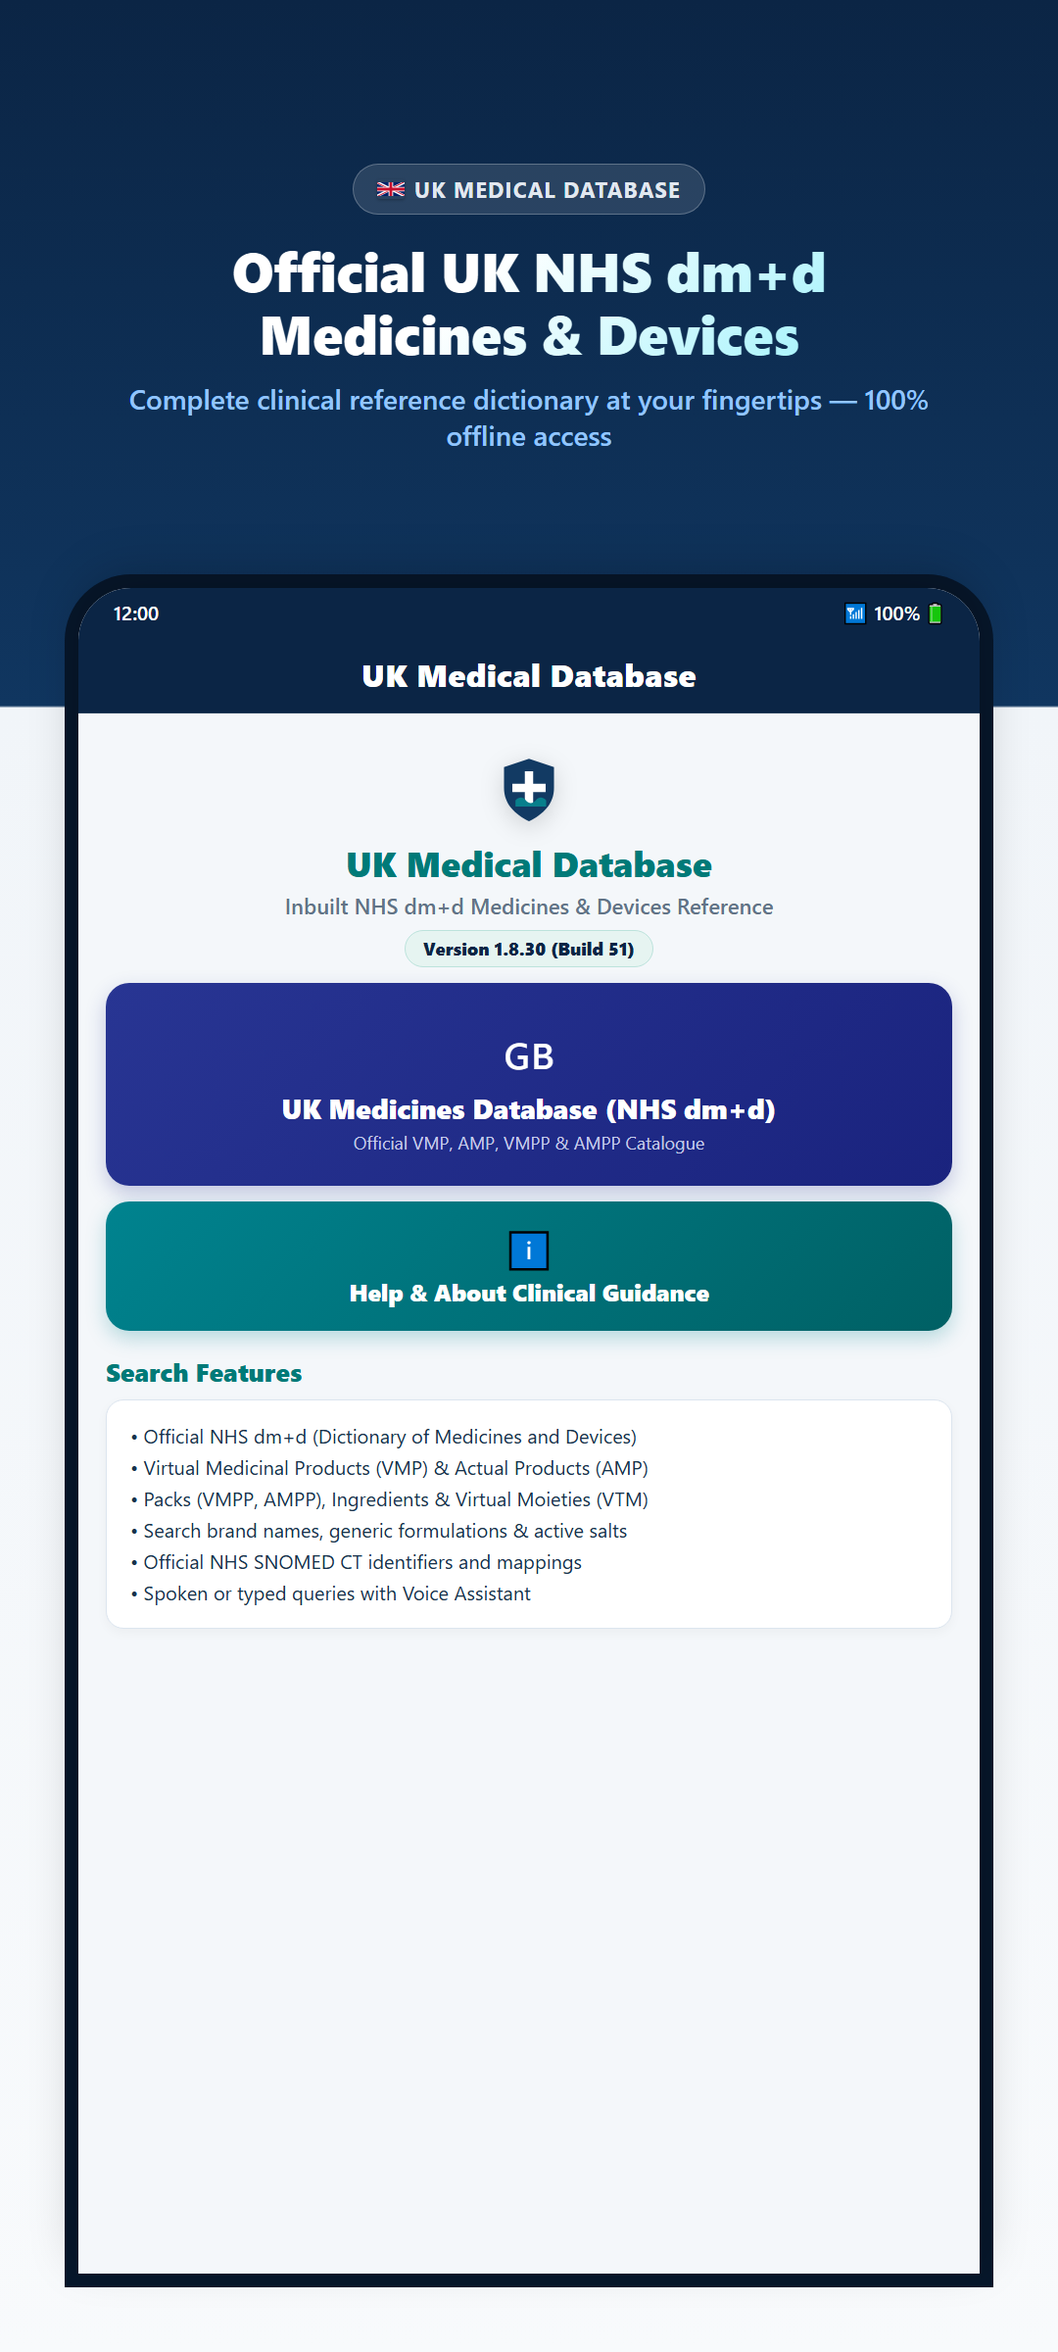
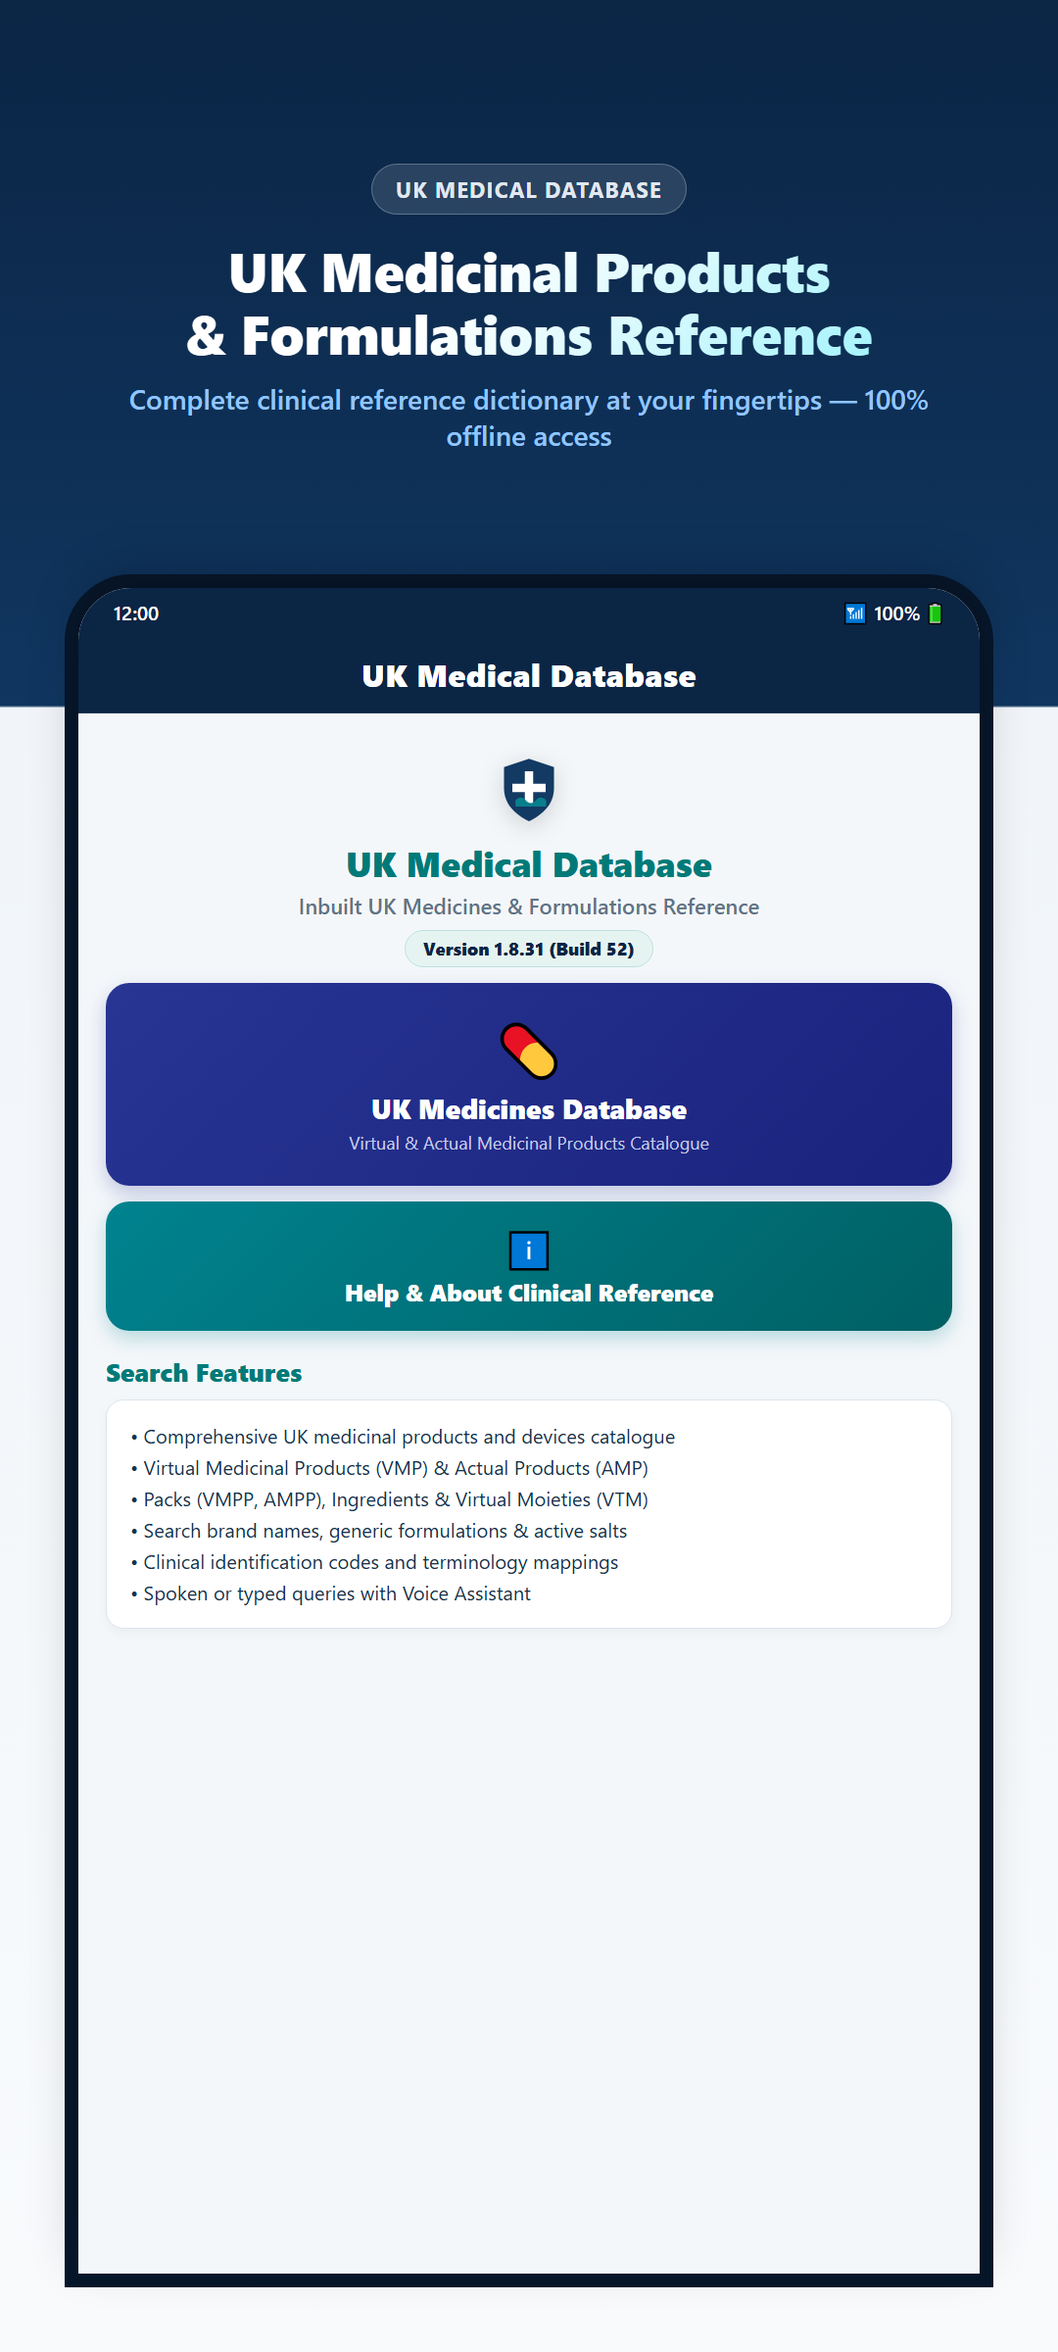
Remove all NHS, dm+d, and UK flag references, re-render clean visual assets, bump to v1.8.31 (code 52)

diff --git a/app/src/main/java/com/drgenz/MainActivity.java b/app/src/main/java/com/drgenz/MainActivity.java
@@ -77,7 +77,7 @@ public class MainActivity extends Activity {
         headerTitle.setTextColor(teal);
         brandBox.addView(headerTitle);
 
-        TextView subTitle = tv("Inbuilt NHS dm+d Medicines & Devices Reference", 14);
+        TextView subTitle = tv("Inbuilt UK Medicines & Formulations Reference", 14);
         subTitle.setGravity(Gravity.CENTER);
         subTitle.setTextColor(getColor(R.color.muted));
         brandBox.addView(subTitle);
@@ -94,7 +94,7 @@ public class MainActivity extends Activity {
         // Primary Search Navigation Tile
         int h = dp(isPhone() ? 120 : 138);
         LinearLayout row1 = new LinearLayout(this); row1.setOrientation(LinearLayout.HORIZONTAL);
-        row1.addView(menuTile("🇬🇧", "UK Medicines Database (NHS dm+d)", 0xFF283593, 0xFFFFFFFF, v -> ukMedicineDatabaseSearch()), new LinearLayout.LayoutParams(-1, h));
+        row1.addView(menuTile("💊", "UK Medicines Database", 0xFF283593, 0xFFFFFFFF, v -> ukMedicineDatabaseSearch()), new LinearLayout.LayoutParams(-1, h));
         LinearLayout.LayoutParams lpRow1 = new LinearLayout.LayoutParams(-1, -2);
         lpRow1.setMargins(0, 0, 0, dp(10));
         body.addView(row1, lpRow1);
@@ -108,18 +108,18 @@ public class MainActivity extends Activity {
 
         // Feature overview
         body.addView(section("Search Features"));
-        body.addView(tv("• UK NHS dm+d (Dictionary of Medicines and Devices) official terminology\n"
+        body.addView(tv("• Comprehensive UK medicinal products and devices catalogue\n"
                 + "• Virtual Medicinal Products (VMP) & Actual Medicinal Products (AMP)\n"
                 + "• Packs (VMPP, AMPP), Ingredients & Virtual Therapeutic Moieties (VTM)\n"
                 + "• Search by brand name, proprietary name, or active chemical substance\n"
-                + "• Official NHS SNOMED CT identifiers and mapping codes\n"
+                + "• Clinical identification codes and terminology mappings\n"
                 + "• Spoken or typed queries with Voice Assistant", 14));
 
-        body.addView(section("Offline NHS Clinical Terminology"));
-        body.addView(tv("All NHS dm+d records are pre-compiled and bundled inside the application. No internet connection is needed for catalogue lookups (internet is only required if using Google Voice Recognition).", 13));
+        body.addView(section("Offline UK Clinical Terminology"));
+        body.addView(tv("All medicine details, packs, and formulations are pre-compiled and bundled inside the application. No internet connection is needed for catalogue lookups (internet is only required if using Google Voice Recognition).", 13));
 
         body.addView(section("Important Clinical Disclaimer"));
-        body.addView(tv("The UK dm+d is a medicine terminology and identification resource, not a complete source of prescribing advice, dosage, side-effects, or contraindications. Missing data must never be interpreted as an absence of risk. Always check official BNF prescribing guidelines and consult a registered medical practitioner.", 13));
+        body.addView(tv("This application is an independent medicine terminology and identification resource, not affiliated with or endorsed by any government entity, the NHS, or dm+d. It is not a complete source of prescribing advice, dosage, side-effects, or contraindications. Always consult a registered medical practitioner and official prescribing references.", 13));
 
         body.addView(section("Developer & Contact Information"));
         body.addView(mainContactBox());
@@ -166,9 +166,9 @@ public class MainActivity extends Activity {
         shell("Help & About");
         body.addView(section("About UK Medical Database"));
         body.addView(tv("Version " + BuildConfig.VERSION_NAME + " (Build " + BuildConfig.VERSION_CODE + ")", 13));
-        body.addView(tv("UK Medical Database is an offline clinical reference tool containing the official NHSBSA dm+d (Dictionary of Medicines and Devices) catalogue.", 14));
+        body.addView(tv("UK Medical Database is an independent offline clinical reference tool providing comprehensive details on UK medicines, active substances, formulations, and packaging.", 14));
 
-        body.addView(section("NHS dm+d Content"));
+        body.addView(section("Medicinal Products & Content"));
         body.addView(tv("• Actual Medicinal Product (AMP): Manufactured medicinal product available in the UK.\n"
                 + "• Actual Medicinal Product Pack (AMPP): Specific pack size of an AMP.\n"
                 + "• Virtual Medicinal Product (VMP): Generic title representing active ingredient and strength.\n"
@@ -178,7 +178,10 @@ public class MainActivity extends Activity {
         body.addView(section("Searching & Voice Assistant"));
         body.addView(tv("• Type at least 3 letters of a product or generic name and tap 'Search' or 'Type and Ask'.\n"
                 + "• Tap the 🎙 Voice Assistant button to ask by voice hands-free.\n"
-                + "• Select any result to view its NHS identifier code and complete entry details read aloud.", 14));
+                + "• Select any result to view its clinical identifier code and complete entry details read aloud.", 14));
+
+        body.addView(section("Non-Affiliation Notice"));
+        body.addView(tv("UK Medical Database is independently developed and published. It is NOT affiliated with, sponsored by, or endorsed by the National Health Service (NHS), NHSBSA, or the Dictionary of Medicines and Devices (dm+d). All trademarks belong to their respective holders.", 13));
 
         body.addView(section("Important Disclaimer"));
         body.addView(tv("The catalogue does not supply complete clinical dosage, side-effect, contraindication or interaction information. It is provided for reference and educational use only.", 14));
@@ -195,8 +198,8 @@ public class MainActivity extends Activity {
 
     void ukMedicineDatabaseSearch() {
         shell("UK Medicines Database");
-        body.addView(section("UK NHS Medicines & Devices"));
-        body.addView(tv("Search the offline NHS dm+d reference dictionary.", 14));
+        body.addView(section("UK Medicines & Formulations"));
+        body.addView(tv("Search the offline UK clinical reference dictionary.", 14));
         body.addView(tv("Internet is required only for voice recognition.", 13));
 
         final EditText q = input("Search UK medicine / brand / ingredient (3+ letters)");
@@ -228,7 +231,7 @@ public class MainActivity extends Activity {
             return;
         }
         ukMedicineResults.removeAllViews();
-        ukMedicineResults.addView(tv("Searching UK NHS dm+d catalogue…", 13));
+        ukMedicineResults.addView(tv("Searching UK medicines catalogue…", 13));
 
         catalogExec.execute(() -> {
             List<Map<String, String>> hits = UkDmDManager.search(MainActivity.this, term, 60);
@@ -236,7 +239,7 @@ public class MainActivity extends Activity {
                 if (isFinishing() || isDestroyed() || ukMedicineResults == null) return;
                 ukMedicineResults.removeAllViews();
                 if (hits.isEmpty()) {
-                    String noMatch = "No matching UK dm+d entries found for \"" + term + "\".";
+                    String noMatch = "No matching UK medicine entries found for \"" + term + "\".";
                     ukMedicineResults.addView(tv(noMatch, 14));
                     if (speakResults) askSay(noMatch);
                     return;
@@ -250,9 +253,9 @@ public class MainActivity extends Activity {
                     final String table = hit.getOrDefault("table", "");
                     final String code = hit.getOrDefault("code", "");
                     final String detail = "Entry type: " + UkDmDManager.tableLabel(table)
-                            + "\nNHS Code: " + code
+                            + "\nClinical Code: " + code
                             + (desc.isEmpty() ? "" : "\nDescription: " + desc)
-                            + "\n\nNote: The NHS dm+d is a product-identification resource. Always check approved prescribing product information for complete clinical guidance.";
+                            + "\n\nNote: This is an independent product-identification resource. Always check approved prescribing product information for complete clinical guidance.";
                     View.OnClickListener open = x -> {
                         AlertDialog dlg = new AlertDialog.Builder(MainActivity.this)
                                 .setTitle(name).setMessage(detail).setPositiveButton("Close", null)

diff --git a/app/src/main/java/com/drgenz/AppUpdateHelper.java b/app/src/main/java/com/drgenz/AppUpdateHelper.java
@@ -22,7 +22,7 @@ import java.net.HttpURLConnection;
 import java.net.URL;
 
 /**
- * Manages in-app update checks for UK Medical Database (NHS dm+d) using a dual-tier strategy:
+ * Manages in-app update checks for UK Medical Database using a dual-tier strategy:
  * 1. Google Play In-App Updates API (official Play Core method for Google Play releases).
  * 2. Custom remote JSON version check fallback (for sideloaded builds, Amazon Appstore, or non-GMS devices).
  */
@@ -50,7 +50,7 @@ public final class AppUpdateHelper {
             this.minRequiredVersionCode = minRequiredVersionCode;
             this.versionName = (versionName == null) ? "" : versionName;
             this.updateMessage = (updateMessage == null || updateMessage.trim().isEmpty())
-                    ? "A new update is available with updated NHS dm+d records and performance enhancements."
+                    ? "A new update is available with updated UK medicine records and performance enhancements."
                     : updateMessage;
             this.playStoreUrl = (playStoreUrl == null || playStoreUrl.trim().isEmpty())
                     ? "https://play.google.com/store/apps/details?id=com.drgenz.ukmeddb"

diff --git a/app/src/test/java/com/drgenz/AppUpdateHelperTest.java b/app/src/test/java/com/drgenz/AppUpdateHelperTest.java
@@ -12,7 +12,7 @@ public class AppUpdateHelperTest {
                 "  \"latestVersionCode\": 51,\n" +
                 "  \"minRequiredVersionCode\": 40,\n" +
                 "  \"versionName\": \"1.8.30\",\n" +
-                "  \"updateMessage\": \"New NHS dm+d records updated.\",\n" +
+                "  \"updateMessage\": \"New UK medicine records updated.\",\n" +
                 "  \"playStoreUrl\": \"https://play.google.com/store/apps/details?id=com.drgenz.ukmeddb\",\n" +
                 "  \"websiteUrl\": \"https://drgenz.info\"\n" +
                 "}";
@@ -22,7 +22,7 @@ public class AppUpdateHelperTest {
         assertEquals(51, cfg.latestVersionCode);
         assertEquals(40, cfg.minRequiredVersionCode);
         assertEquals("1.8.30", cfg.versionName);
-        assertEquals("New NHS dm+d records updated.", cfg.updateMessage);
+        assertEquals("New UK medicine records updated.", cfg.updateMessage);
         assertEquals("https://play.google.com/store/apps/details?id=com.drgenz.ukmeddb", cfg.playStoreUrl);
         assertEquals("https://drgenz.info", cfg.websiteUrl);
     }

diff --git a/app/src/main/java/com/drgenz/UkDmDManager.java b/app/src/main/java/com/drgenz/UkDmDManager.java
@@ -33,7 +33,7 @@ public final class UkDmDManager {
         SharedPreferences p = context.getSharedPreferences(PREFS, Context.MODE_PRIVATE);
         String release = p.getString("release", "Release 11.1.0");
         String date = p.getString("release_date", "2026-11-09");
-        return "NHS dm+d item 24 + item 25: " + release + " (" + date + ") · bundled offline catalogue";
+        return "UK Medicines Catalogue: " + release + " (" + date + ") · bundled offline catalogue";
     }
 
     public static List<Map<String, String>> search(Context context, String query, int limit) {
@@ -57,7 +57,7 @@ public final class UkDmDManager {
         if ("tf".equals(table)) return "Trade Family";
         if ("tfg".equals(table)) return "Trade Family Group";
         if ("vtm_ing".equals(table)) return "VTM ingredient relationship";
-        if ("history".equals(table)) return "Historic dm+d code";
-        return "NHS dm+d terminology";
+        if ("history".equals(table)) return "Historic clinical code";
+        return "Clinical terminology";
     }
 }

diff --git a/STORE_LISTING_DESCRIPTION.md b/STORE_LISTING_DESCRIPTION.md
@@ -1,41 +1,41 @@
 # UK Medical Database — Google Play Store Listing Metadata
 
 ## Short Description (Max 80 Characters)
-Offline UK NHS dm+d medicines, brands, ingredients & SNOMED CT reference.
-*(Length: 73 characters)*
+Comprehensive offline UK medicines, brands, ingredients & clinical codes.
+*(Length: 75 characters)*
 
 ### Alternative Short Descriptions:
-1. `Comprehensive offline UK NHS dm+d medicines & medical devices dictionary.` *(73 chars)*
-2. `Offline UK NHS dm+d clinical dictionary for medicines, devices & ingredients.` *(76 chars)*
-3. `Complete offline UK NHS medicines reference, devices, brands & SNOMED codes.` *(76 chars)*
+1. `Offline UK medicines database: brands, generic formulations & clinical codes.` *(79 chars)*
+2. `Complete offline UK clinical medicines reference, generic brands & active salts.` *(80 chars)*
+3. `Offline UK clinical database for medicines, formulations & active ingredients.` *(78 chars)*
 
 ---
 
 ## Full / Long Description (Google Play Store Compliant)
 
-**UK Medical Database** is a comprehensive, fully offline medical reference application delivering direct access to the official UK National Health Service Dictionary of Medicines and Devices (NHSBSA dm+d). 
+**UK Medical Database** is a comprehensive, fully offline medical reference application delivering direct access to United Kingdom medicinal products, generic formulations, clinical concepts, and medical devices. 
 
-Designed for healthcare professionals, pharmacists, medical practitioners, clinical prescribers, researchers, and healthcare students, UK Medical Database provides instant offline lookups for thousands of medicinal products, clinical concepts, generic formulations, and medical devices licensed in the United Kingdom.
+Designed for healthcare professionals, pharmacists, medical practitioners, clinical prescribers, researchers, and healthcare students, UK Medical Database provides instant offline lookups for thousands of medicinal products, clinical concepts, generic formulations, and medical devices in the United Kingdom.
 
 ---
 
-### 🏥 Complete NHS dm+d Terminology Coverage
-The NHS dm+d is the UK healthcare standard for clinical coding and medicine identification. This app includes complete offline indexing for:
+### 🏥 Comprehensive Medicinal Products & Formulations
+The application provides full offline clinical indexing for:
 • **Virtual Medicinal Products (VMP):** Standard generic descriptions representing active ingredient substances, strengths, and pharmaceutical dosage forms.
 • **Actual Medicinal Products (AMP):** Specific brand-name and proprietary medicines manufactured and marketed in the UK.
 • **Virtual Medicinal Product Packs (VMPP):** Standard packaging and generic pack size specifications.
 • **Actual Medicinal Product Packs (AMPP):** Manufacturer-specific commercial pack sizes and trade containers.
 • **Virtual Therapeutic Moieties (VTM) & Ingredients:** Fundamental active pharmacological ingredients and chemical entities.
-• **Official NHS SNOMED CT Codes:** Unique clinical terminology identifiers for every entry to facilitate electronic health record (EHR) cross-referencing.
+• **Clinical Identification Codes:** Terminology and classification codes for every entry to facilitate electronic record cross-referencing.
 
 ---
 
 ### ⚡ Key Features
-• **100% Offline Database:** Complete NHS dm+d records are bundled directly inside the application. Look up medicines, packs, and ingredients anywhere without requiring cellular data or Wi-Fi.
-• **🎙 Hands-Free Voice Assistant:** Search medicines hands-free by voice or spoken queries. Built-in natural Text-to-Speech (TTS) can read aloud clinical descriptions, entry types, and NHS codes.
+• **100% Offline Database:** Complete medicine and formulation records are bundled directly inside the application. Look up medicines, packs, and ingredients anywhere without requiring cellular data or Wi-Fi.
+• **🎙 Hands-Free Voice Assistant:** Search medicines hands-free by voice or spoken queries. Built-in natural Text-to-Speech (TTS) can read aloud clinical descriptions, entry types, and identification codes.
 • **💊 Smart Clinical Sorting:** Automatically prioritizes primary oral solid dosage forms (tablets and capsules) before suspensions, liquids, and injections for rapid point-of-care referencing.
-• **🔍 Fast Type-Ahead Search:** Instant search results by proprietary brand name, approved generic name, active substance, or NHS code.
-• **📋 Detailed Clinical Overview:** Tap any result to inspect detailed NHS classification, entry type, SNOMED CT code, and full descriptive metadata.
+• **🔍 Fast Type-Ahead Search:** Instant search results by proprietary brand name, approved generic name, active substance, or clinical code.
+• **📋 Detailed Clinical Overview:** Tap any result to inspect detailed classification, entry type, clinical code, and full descriptive metadata.
 • **🔒 Private & Secure:** No account creation, no login, and no user tracking. Zero personal data collected.
 
 ---
@@ -49,8 +49,13 @@ The NHS dm+d is the UK healthcare standard for clinical coding and medicine iden
 
 ---
 
+### 🏛 Non-Affiliation Notice
+**UK Medical Database is an independent educational and clinical reference application developed and published by Jagdish Krishanlal Arora. This application is NOT affiliated with, sponsored by, endorsed by, or associated in any official capacity with the National Health Service (NHS), the NHS Business Services Authority (NHSBSA), or the Dictionary of Medicines and Devices (dm+d). All product names, trade names, trademarks, and registered trademarks cited belong to their respective owners.**
+
+---
+
 ### ⚠ Important Medical Disclaimer
-*UK Medical Database is intended strictly for reference and educational purposes. The NHS dm+d provides medicine terminology, packaging, and identification standards; it does not replace clinical judgment or provide full prescribing guidelines, indications, contraindications, drug-drug interactions, or tailored dosage regimens. Healthcare providers must always refer to official British National Formulary (BNF / BNF for Children) guidelines and approved summary of product characteristics (SmPC) before prescribing or administering medication.*
+UK Medical Database is intended strictly for reference and educational purposes. It does not replace professional clinical judgment or provide full prescribing guidelines, indications, contraindications, drug-drug interactions, or tailored dosage regimens. Healthcare providers must always refer to official British National Formulary (BNF / BNF for Children) guidelines and approved summary of product characteristics (SmPC) before prescribing or administering medication.
 
 ---
 
